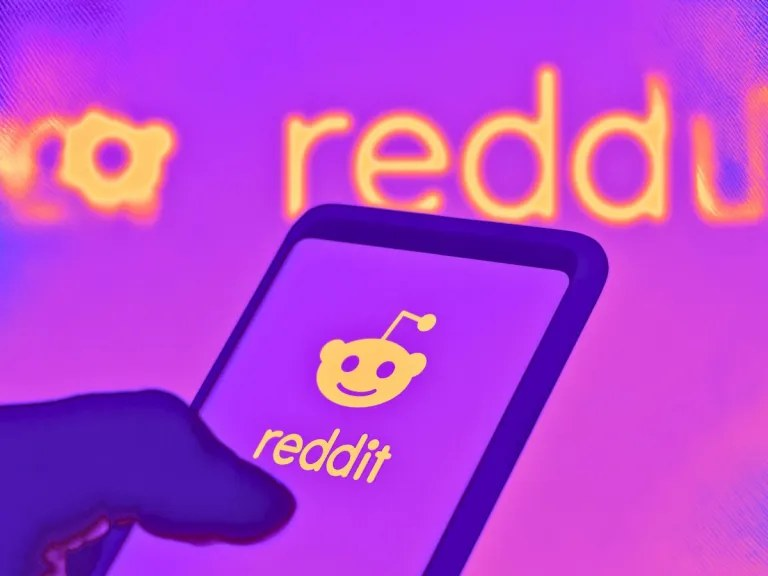
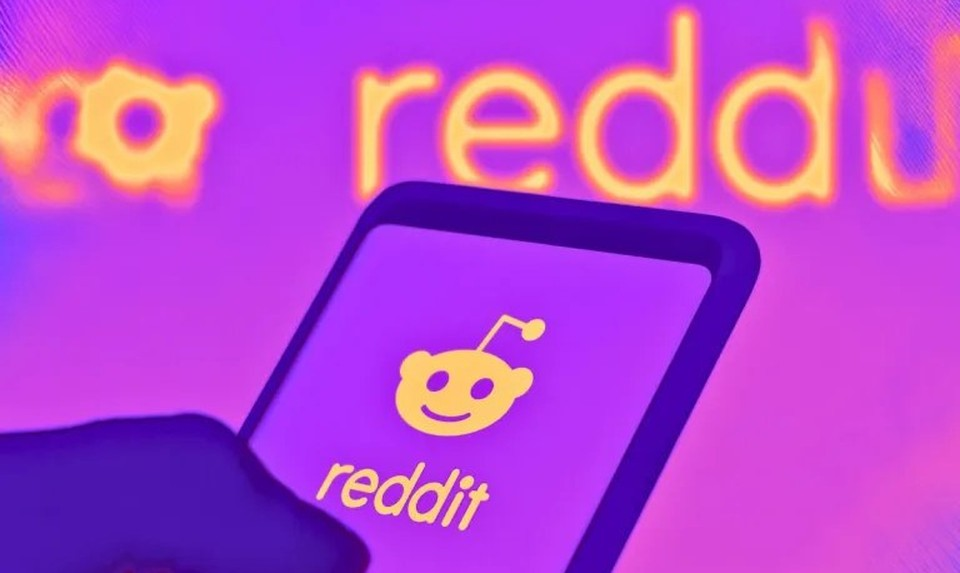
Match second news image's size to the first
Center-crop and resize the Reddit photo to the same 960x573 dimensions
as the AI-art-gallery image, so both news entries render at an
identical size (verified 420x250.7 rendered box for both) instead of
the Reddit photo's original 4:3 crop rendering taller.

diff --git a/Agora/index.html b/Agora/index.html
@@ -416,7 +416,7 @@
             just don't have a name for it yet."</p>
         </li>
         <li class="news-item">
-          <img class="news-image" src="assets/news/reddit-pro-ai-activists.jpg" alt="A hand holds a phone showing the Reddit app logo, with the reddit wordmark glowing in the purple-and-orange background" width="768" height="576" loading="lazy" />
+          <img class="news-image" src="assets/news/reddit-pro-ai-activists.jpg" alt="A hand holds a phone showing the Reddit app logo, with the reddit wordmark glowing in the purple-and-orange background" width="960" height="573" loading="lazy" />
           <a href="https://thechainsaw.com/artificial-intelligence/reddit-pro-ai-activists-crusade-midjourney/" target="_blank" rel="noopener noreferrer">"Pro-AI Activists" Are Growing And On A Crusade</a>
           <span class="news-source">The Chainsaw</span>
           <p class="news-quote">"The art world has been through a lot of these
